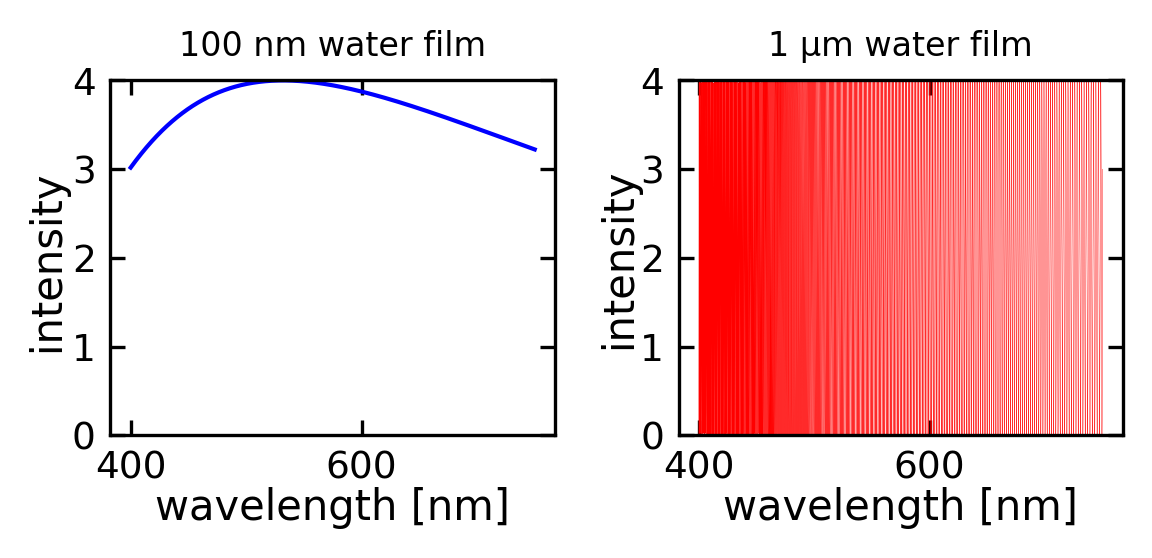
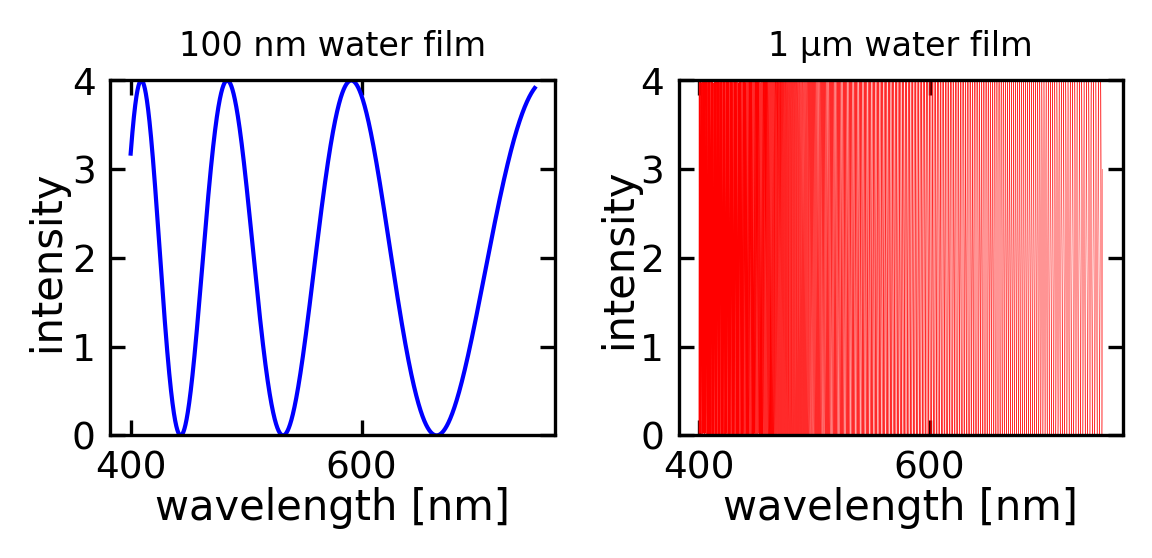
Built site for gh-pages

diff --git a/geometrical-optics/Rainbow.html b/geometrical-optics/Rainbow.html
@@ -512,7 +512,7 @@ window.Quarto = {
 <p>such that finally</p>
 <p><span class="math display">\[\phi=4\sin^{-1}\left (\frac{n_{\rm air}}{n_{\rm water}}\sin(\alpha) \right)-2\alpha\]</span></p>
 <p>So let us have a look at this dependence of the deflection angle as a function of the incidence angle.</p>
-<div id="ff09cbf0" class="cell" data-execution_count="2">
+<div id="f926b661" class="cell" data-execution_count="2">
 <details class="code-fold">
 <summary>Code</summary>
 <div class="sourceCode cell-code" id="cb1"><pre class="sourceCode python code-with-copy"><code class="sourceCode python"><span id="cb1-1"><a href="#cb1-1" aria-hidden="true" tabindex="-1"></a>alpha<span class="op">=</span>np.linspace(<span class="dv">0</span>,np.pi<span class="op">/</span><span class="dv">2</span>,<span class="dv">10000</span>)</span>
@@ -538,7 +538,7 @@ window.Quarto = {
 </div>
 </div>
 <p>The dependence seems to show a maximum deflection angle at an incidence angle of around <span class="math inline">\(\alpha=60^{\circ}\)</span>. This is an important finding, as the whole appearance of the rainbow depends on that.</p>
-<div id="45ecff79" class="cell" data-execution_count="3">
+<div id="e7bb194c" class="cell" data-execution_count="3">
 <div class="cell-output cell-output-stdout">
 <pre><code>Maximum deflection angle  41.78815648670841</code></pre>
 </div>
@@ -546,7 +546,7 @@ window.Quarto = {
 <section id="color-formation-and-dispersion" class="level3">
 <h3 class="anchored" data-anchor-id="color-formation-and-dispersion">Color Formation and Dispersion</h3>
 <p>The color of the rainbow is the result of the fact that the maximum deflection angle depends on the color of the light due to the dispersion. Since we have a refraction, reflection and another refraction, the largest maximum deflection angle is observed for red light, while the smallest one appears for blue light. The diagrams below show this result, which is in general true for materials with normal dispersion.</p>
-<div id="b95dfc32" class="cell" data-execution_count="4">
+<div id="c944503b" class="cell" data-execution_count="4">
 <details class="code-fold">
 <summary>Code</summary>
 <div class="sourceCode cell-code" id="cb3"><pre class="sourceCode python code-with-copy"><code class="sourceCode python"><span id="cb3-1"><a href="#cb3-1" aria-hidden="true" tabindex="-1"></a>plt.figure(figsize<span class="op">=</span>(<span class="dv">8</span>,<span class="dv">4</span>))</span>
@@ -581,7 +581,7 @@ window.Quarto = {
 </div>
 <p>This order of the colors is actually true for all incident angles, which raises the question, why the rainbow is actually colored. The blue color of a certain incidence angle would actually overlap with the green color of a different incidence angle and the red color of an even different incidence angle. If you select a specific outgoing angle under which you observe the rainbow, let us say <span class="math inline">\(41^{\circ}\)</span>, then you find under this observation angle all color and, therefore, should observe always white light.</p>
 <p>This is actually true if you look at the inside of a rainbow. You clearly recognize that inside the rainbow it is much brighter than outside. Yet when you reach the maximum angle of each color, you have a region, where even for larger angles for the incidence angles, the deflection angle does not change. Thus, if you assume you send in rays at constantly spaced incidence angles, you will have more rays with a deflection angle close to the maximum. The diagram below just counts the number of deflection angles in the different for each color and you clearly see that around the maximum deflection angles for each color you have a strong peak.</p>
-<div id="1947a68f" class="cell" data-execution_count="5">
+<div id="add67c64" class="cell" data-execution_count="5">
 <details class="code-fold">
 <summary>Code</summary>
 <div class="sourceCode cell-code" id="cb4"><pre class="sourceCode python code-with-copy"><code class="sourceCode python"><span id="cb4-1"><a href="#cb4-1" aria-hidden="true" tabindex="-1"></a>plt.figure(figsize<span class="op">=</span>(<span class="dv">6</span>,<span class="dv">4</span>))</span>

diff --git a/wave-optics/interference.html b/wave-optics/interference.html
@@ -536,7 +536,7 @@ Constructive Interference
 <p>Occurs when <span class="math inline">\(\Delta \phi=2\pi m\)</span> (where <span class="math inline">\(m\)</span> is an integer), resulting in <span class="math inline">\(I=4I_0\)</span></p>
 </div>
 </div>
-<div id="28e77686" class="cell" data-execution_count="2">
+<div id="f80c852e" class="cell" data-execution_count="2">
 <details class="code-fold">
 <summary>Code</summary>
 <div class="sourceCode cell-code" id="cb1"><pre class="sourceCode python code-with-copy"><code class="sourceCode python"><span id="cb1-1"><a href="#cb1-1" aria-hidden="true" tabindex="-1"></a>x<span class="op">=</span>np.linspace(<span class="dv">0</span>,<span class="dv">2</span>,<span class="dv">1000</span>)</span>
@@ -577,7 +577,7 @@ Destructive Interference
 <p>Occurs when <span class="math inline">\(\Delta \phi=(2m-1)\pi\)</span> (where <span class="math inline">\(m\)</span> is an integer), resulting in <span class="math inline">\(I=0\)</span></p>
 </div>
 </div>
-<div id="ebbaf3e2" class="cell" data-execution_count="3">
+<div id="8c6524e8" class="cell" data-execution_count="3">
 <details class="code-fold">
 <summary>Code</summary>
 <div class="sourceCode cell-code" id="cb2"><pre class="sourceCode python code-with-copy"><code class="sourceCode python"><span id="cb2-1"><a href="#cb2-1" aria-hidden="true" tabindex="-1"></a>x<span class="op">=</span>np.linspace(<span class="dv">0</span>,<span class="dv">2</span>,<span class="dv">1000</span>)</span>
@@ -641,7 +641,7 @@ Phase Difference and Path Difference
 </section>
 <section id="interference-of-waves-in-space" class="level3">
 <h3 class="anchored" data-anchor-id="interference-of-waves-in-space">Interference of Waves in Space</h3>
-<div id="4159bbe9" class="cell" data-execution_count="4">
+<div id="b89fbac5" class="cell" data-execution_count="4">
 <details class="code-fold">
 <summary>Code</summary>
 <div class="sourceCode cell-code" id="cb3"><pre class="sourceCode python code-with-copy"><code class="sourceCode python"><span id="cb3-1"><a href="#cb3-1" aria-hidden="true" tabindex="-1"></a><span class="kw">def</span> plane_wave(k,omega,r,t):</span>
@@ -695,7 +695,7 @@ Phase Difference and Path Difference
 </div>
 </div>
 </div>
-<div id="a60396b3" class="cell" data-execution_count="5">
+<div id="9acf345c" class="cell" data-execution_count="5">
 <details class="code-fold">
 <summary>Code</summary>
 <div class="sourceCode cell-code" id="cb4"><pre class="sourceCode python code-with-copy"><code class="sourceCode python"><span id="cb4-1"><a href="#cb4-1" aria-hidden="true" tabindex="-1"></a><span class="kw">def</span> spherical_wave(k,omega,r,r0,t):</span>
@@ -857,7 +857,7 @@ Coherence
 <li>Limited coherence length/area</li>
 <li>Spectral broadening</li>
 </ul>
-<div id="b67a0672" class="cell" data-execution_count="6">
+<div id="9bd67773" class="cell" data-execution_count="6">
 <details class="code-fold">
 <summary>Code</summary>
 <div class="sourceCode cell-code" id="cb5"><pre class="sourceCode python code-with-copy"><code class="sourceCode python"><span id="cb5-1"><a href="#cb5-1" aria-hidden="true" tabindex="-1"></a>omega0 <span class="op">=</span> <span class="fl">2.0</span></span>
@@ -929,7 +929,7 @@ Coherence
 </div>
 </div>
 <p>Besides different frequencies the coherence time can also be affected by phase jumps. The following example shows two waves with the same frequency but multiple phase jumps. The temporal correlation function shows the decoherence due to the phase jumps.</p>
-<div id="04e125a3" class="cell" data-execution_count="7">
+<div id="e0b80989" class="cell" data-execution_count="7">
 <details class="code-fold">
 <summary>Code</summary>
 <div class="sourceCode cell-code" id="cb6"><pre class="sourceCode python code-with-copy"><code class="sourceCode python"><span id="cb6-1"><a href="#cb6-1" aria-hidden="true" tabindex="-1"></a><span class="im">import</span> numpy <span class="im">as</span> np</span>

diff --git a/wave-optics/Wave Optics.html b/wave-optics/Wave Optics.html
@@ -705,7 +705,7 @@ k_{0y}\\
 k_{0z}\\
 \end{pmatrix}
 \end{equation}\]</span></p>
-<div id="01d315d1" class="cell" data-execution_count="2">
+<div id="d774ab20" class="cell" data-execution_count="2">
 <details class="code-fold">
 <summary>Code</summary>
 <div class="sourceCode cell-code" id="cb1"><pre class="sourceCode python code-with-copy"><code class="sourceCode python"><span id="cb1-1"><a href="#cb1-1" aria-hidden="true" tabindex="-1"></a><span class="kw">def</span> plane_wave(k,omega,r,t):</span>
@@ -879,9 +879,9 @@ k_1\sin(\theta_1)=k_2\sin(\theta_2)
 <span id="cb2-46"><a href="#cb2-46" aria-hidden="true" tabindex="-1"></a><span class="co"># Show the plot</span></span>
 <span id="cb2-47"><a href="#cb2-47" aria-hidden="true" tabindex="-1"></a>plt.show()</span></code><button title="Copy to Clipboard" class="code-copy-button"><i class="bi"></i></button></pre></div>
 </details>
-<div class="quarto-layout-panel" data-column-width-middle="20%" data-column-width-left="40%" data-column-width-right="20%" data-layout-ncol="3">
+<div class="quarto-layout-panel" data-column-width-middle="20%" data-column-width-left="40%" data-layout-ncol="3" data-column-width-right="20%">
 <div class="quarto-layout-row">
-<div id="4aad05db" class="cell quarto-layout-cell" data-execution_count="3" style="flex-basis: 33.3%;justify-content: flex-start;">
+<div id="519be020" class="cell quarto-layout-cell" data-execution_count="3" style="flex-basis: 33.3%;justify-content: flex-start;">
 <div class="cell-output cell-output-display">
 <div class="quarto-figure quarto-figure-center">
 <figure class="figure">
@@ -930,7 +930,7 @@ Important
 <p>The <span class="math inline">\(1/|\mathbf{r}-\mathbf{r}_0|\)</span> factor in the amplitude is necessary for energy conservation - ensuring that the total energy flux through any spherical surface centered on the source remains constant.</p>
 </div>
 </div>
-<div id="d1e03b6c" class="cell" data-execution_count="4">
+<div id="851130a9" class="cell" data-execution_count="4">
 <details class="code-fold">
 <summary>Code</summary>
 <div class="sourceCode cell-code" id="cb3"><pre class="sourceCode python code-with-copy"><code class="sourceCode python"><span id="cb3-1"><a href="#cb3-1" aria-hidden="true" tabindex="-1"></a><span class="kw">def</span> spherical_wave(k,omega,r,r0,t):</span>

diff --git a/geometrical-optics/Imaging Errors.html b/geometrical-optics/Imaging Errors.html
@@ -552,7 +552,7 @@ Figure&nbsp;1— Chromatic aberration. Left: Sketch of the chromatic aberration,
 </figure>
 </div>
 <p>Here is a plot for the variation of the focal distance of a lens with a radius of curvature of 100 mm as a function of the wavelength for three different glasses.</p>
-<div id="4c394d3d" class="cell" data-execution_count="2">
+<div id="e4c77e39" class="cell" data-execution_count="2">
 <details class="code-fold">
 <summary>Code</summary>
 <div class="sourceCode cell-code" id="cb1"><pre class="sourceCode python code-with-copy"><code class="sourceCode python"><span id="cb1-1"><a href="#cb1-1" aria-hidden="true" tabindex="-1"></a>bk7<span class="op">=</span>pd.read_csv(<span class="st">"data/BK7.csv"</span>,delimiter<span class="op">=</span><span class="st">","</span>)</span>
@@ -1034,7 +1034,7 @@ R_n^m(\rho) = \sum_{k=0}^{\frac{n-m}{2}} \frac{(-1)^k (n-k)!}{k! \left(\frac{n+m
 <p>The Zernike polynomials are indexed in several ways, with one common method being the Noll index, which provides a single index <span class="math inline">\(j\)</span> to each polynomial. Another method uses the pair <span class="math inline">\((n, m)\)</span> to index the polynomials, where <span class="math inline">\(n\)</span> indicates the order of the polynomial and <span class="math inline">\(m\)</span> its azimuthal frequency.</p>
 <p>These polynomials are particularly useful in optics and ophthalmology for describing the shape of optical wavefronts and the aberrations of optical systems, including the human eye. They allow for the decomposition of a complex wavefront into simpler, orthogonal components, each corresponding to a specific type of aberration, such as defocus, astigmatism, coma, etc.</p>
 <p>The plots below visualize the Zernike Polynomials up to a certain order.</p>
-<div id="ebcda236" class="cell" data-tags="[]" data-execution_count="3">
+<div id="7a25e9b1" class="cell" data-tags="[]" data-execution_count="3">
 <details class="code-fold">
 <summary>Code</summary>
 <div class="sourceCode cell-code" id="cb2"><pre class="sourceCode python code-with-copy"><code class="sourceCode python"><span id="cb2-1"><a href="#cb2-1" aria-hidden="true" tabindex="-1"></a><span class="kw">def</span> radial_polynomial(n, m, rho):</span>

diff --git a/wave-optics/Double Slit.html b/wave-optics/Double Slit.html
@@ -551,7 +551,7 @@ window.Quarto = {
 </details>
 <div class="quarto-layout-panel" data-layout-ncol="2">
 <div class="quarto-layout-row">
-<div id="9a3bfd91" class="cell quarto-layout-cell" data-execution_count="2" style="flex-basis: 50.0%;justify-content: flex-start;">
+<div id="5e6dc84e" class="cell quarto-layout-cell" data-execution_count="2" style="flex-basis: 50.0%;justify-content: flex-start;">
 <div class="cell-output cell-output-display">
 <div class="quarto-figure quarto-figure-center">
 <figure class="figure">
@@ -706,7 +706,7 @@ d3.select("#wavelength").on("input", function() {
 I = I_1 + I_2 + 2 \sqrt{I_1 I_2} \cos(\Delta \phi)
 \]</span></p>
 <p>where <span class="math inline">\(I_1\)</span> and <span class="math inline">\(I_2\)</span> are the intensities of the two sources. The intensity pattern is shown in the plot below. The intensity is highest at the center of the screen and decreases as we move away from the center. The intensity is zero at points where the path length difference is equal to an integer multiple of the wavelength, i.e.&nbsp;<span class="math inline">\(\Delta s = m \lambda\)</span> where <span class="math inline">\(m\)</span> is an integer. This gives the condition for constructive interference. The intensity is also zero at points where the path length difference is equal to an integer multiple of the wavelength plus half a wavelength, i.e.&nbsp;<span class="math inline">\(\Delta s = (m + 0.5) \lambda\)</span> where <span class="math inline">\(m\)</span> is an integer. This gives the condition for destructive interference.</p>
-<div id="d190777d" class="cell" data-execution_count="3">
+<div id="3735b34a" class="cell" data-execution_count="3">
 <details class="code-fold">
 <summary>Code</summary>
 <div class="sourceCode cell-code" id="cb2"><pre class="sourceCode python code-with-copy"><code class="sourceCode python"><span id="cb2-1"><a href="#cb2-1" aria-hidden="true" tabindex="-1"></a><span class="co"># Plot intensity pattern</span></span>

diff --git a/geometrical-optics/Optical Elements III.html b/geometrical-optics/Optical Elements III.html
@@ -539,7 +539,7 @@ Paraxial Approximation
 <li>The error increases rapidly for larger angles, indicating the limitations of the paraxial approximation.</li>
 </ol>
 <p>In most optical systems, especially those involving lenses, the angles of incident and refracted rays are typically small enough for this approximation to be valid. However, it’s important to be aware of its limitations when dealing with wide-angle optical systems or scenarios where precision is critical.</p>
-<div id="121a718c" class="cell" data-execution_count="2">
+<div id="0a72288c" class="cell" data-execution_count="2">
 <details class="code-fold">
 <summary>Code</summary>
 <div class="sourceCode cell-code" id="cb1"><pre class="sourceCode python code-with-copy"><code class="sourceCode python"><span id="cb1-1"><a href="#cb1-1" aria-hidden="true" tabindex="-1"></a><span class="im">import</span> numpy <span class="im">as</span> np</span>
@@ -968,7 +968,7 @@ M=\begin{bmatrix}
 <p>This is the Lensmaker’s equation for a thick lens.</p>
 <p>The construction of ray diagrams for thick lenses is similar to that for thin lenses, but the object and image distances are measured from the principal planes. The magnification is also calculated using the distances from the principal planes. <strong>Principal planes are where a thick lens can be treated as an equivalent thin lens. At these planes, the magnification is unity.</strong></p>
 <p>The derivation of the local of the principle planes will be part of the seminar.</p>
-<div id="952d3972" class="cell" data-execution_count="3">
+<div id="9a454a89" class="cell" data-execution_count="3">
 <details class="code-fold">
 <summary>Code</summary>
 <div class="sourceCode cell-code" id="cb2"><pre class="sourceCode python code-with-copy"><code class="sourceCode python"><span id="cb2-1"><a href="#cb2-1" aria-hidden="true" tabindex="-1"></a><span class="co"># %% Importing libraries and defining symbols</span></span>

diff --git a/wave-optics/Thin Film Interference.html b/wave-optics/Thin Film Interference.html
@@ -644,7 +644,7 @@ d=\frac{(2m-1)\lambda_{max}}{2n}\approx 75\, {\rm nm}
 <span id="cb2-20"><a href="#cb2-20" aria-hidden="true" tabindex="-1"></a></span>
 <span id="cb2-21"><a href="#cb2-21" aria-hidden="true" tabindex="-1"></a>wavelengths <span class="op">=</span> np.linspace(<span class="dv">400</span>, <span class="dv">750</span>, <span class="dv">10000</span>)</span>
 <span id="cb2-22"><a href="#cb2-22" aria-hidden="true" tabindex="-1"></a></span>
-<span id="cb2-23"><a href="#cb2-23" aria-hidden="true" tabindex="-1"></a>R_100nm <span class="op">=</span> [calculate_reflection(w<span class="op">*</span><span class="fl">1e-9</span>, <span class="fl">0.1e-6</span>) <span class="cf">for</span> w <span class="kw">in</span> wavelengths]</span>
+<span id="cb2-23"><a href="#cb2-23" aria-hidden="true" tabindex="-1"></a>R_100nm <span class="op">=</span> [calculate_reflection(w<span class="op">*</span><span class="fl">1e-9</span>, <span class="fl">1e-6</span>) <span class="cf">for</span> w <span class="kw">in</span> wavelengths]</span>
 <span id="cb2-24"><a href="#cb2-24" aria-hidden="true" tabindex="-1"></a>R_10nm <span class="op">=</span> [calculate_reflection(w<span class="op">*</span><span class="fl">1e-9</span>, <span class="fl">100e-6</span>) <span class="cf">for</span> w <span class="kw">in</span> wavelengths]</span>
 <span id="cb2-25"><a href="#cb2-25" aria-hidden="true" tabindex="-1"></a></span>
 <span id="cb2-26"><a href="#cb2-26" aria-hidden="true" tabindex="-1"></a>fig, (ax1, ax2) <span class="op">=</span> plt.subplots(<span class="dv">1</span>, <span class="dv">2</span>, figsize<span class="op">=</span>get_size(<span class="dv">10</span>, <span class="dv">5</span>),dpi<span class="op">=</span><span class="dv">150</span>)</span>

diff --git a/wave-optics/MultiWave Interference.html b/wave-optics/MultiWave Interference.html
@@ -635,7 +635,7 @@ I=I_{0}\frac{\sin^2(M\phi/2)}{\sin^2(\phi/2)}
 </details>
 <div id="figure-md" class="quarto-layout-panel" data-layout-ncol="2">
 <div class="quarto-layout-row">
-<div id="5d4c64ad" class="cell quarto-layout-cell" data-execution_count="2" style="flex-basis: 50.0%;justify-content: flex-start;">
+<div id="0af52d20" class="cell quarto-layout-cell" data-execution_count="2" style="flex-basis: 50.0%;justify-content: flex-start;">
 <div class="cell-output cell-output-display">
 <div class="quarto-figure quarto-figure-center">
 <figure class="figure">
@@ -802,7 +802,7 @@ U=U_1+U_2+U_3+\ldots+U_M = \sqrt{I_0}(1+h+h^2+\ldots)
 </details>
 <div id="figure-fabry" class="quarto-layout-panel" data-layout-ncol="2">
 <div class="quarto-layout-row">
-<div id="0f62243e" class="cell quarto-layout-cell" data-execution_count="4" style="flex-basis: 50.0%;justify-content: flex-start;">
+<div id="3dbf946a" class="cell quarto-layout-cell" data-execution_count="4" style="flex-basis: 50.0%;justify-content: flex-start;">
 <div class="cell-output cell-output-display">
 <div class="quarto-figure quarto-figure-center">
 <figure class="figure">
@@ -812,7 +812,7 @@ U=U_1+U_2+U_3+\ldots+U_M = \sqrt{I_0}(1+h+h^2+\ldots)
 </div>
 </div>
 </div>
-<div id="91af2b09" class="cell quarto-layout-cell" data-execution_count="5" style="flex-basis: 50.0%;justify-content: flex-start;">
+<div id="2efc9118" class="cell quarto-layout-cell" data-execution_count="5" style="flex-basis: 50.0%;justify-content: flex-start;">
 <div class="cell-output cell-output-display">
 <div class="quarto-figure quarto-figure-center">
 <figure class="figure">

diff --git a/geometrical-optics/Optical Elements I.html b/geometrical-optics/Optical Elements I.html
@@ -965,7 +965,7 @@ Elliptical Mirrors and Fermat’s Principle
 <p>There is one interesting feature about elliptical mirrors: they can focus light from one focal point to the other. This is because the sum of the distances from any point on the ellipse to the two focal points is constant. This property is known as the <strong>ellipse’s geometric definition</strong> and you can try that at home with a piece of string and two pins.</p>
 <p>We can now apply Fermat’s principle to proof that the light reflected from the ellipse travels a path length that is a saddle point. This means that the path length is stationary with respect to small perturbations in the path. Assuming for example that light travels from one focal point by a different path that is reflected from a line which is tangent to the ellipse at the point of reflection, the path length would be longer at any other point than the initial reflection point.</p>
 <p>On the other side, if we reflect the ray on a surface that is a circle, which is intersecting the ellipse at the point of reflection, the path length would be shorter at any other point than the initial reflection point. This is a proof that the ellipse is a saddle point.</p>
-<div id="3950e7e8" class="cell" data-execution_count="4">
+<div id="520a254b" class="cell" data-execution_count="4">
 <div class="cell-output cell-output-display">
 <div>
 <figure class="figure">

diff --git a/wave-optics/Diffraction.html b/wave-optics/Diffraction.html
@@ -572,7 +572,7 @@ I(\theta)=I_s\frac{\sin^2\left (\pi \frac{b}{\lambda}\sin(\theta)\right)}{\left(
 </figure>
 </div>
 <p>Let’s have a look at some of the properties of the intensity distribution.</p>
-<div id="b2990c38" class="cell" data-execution_count="2">
+<div id="aba27d0e" class="cell" data-execution_count="2">
 <details class="code-fold">
 <summary>Code</summary>
 <div class="sourceCode cell-code" id="cb1"><pre class="sourceCode python code-with-copy"><code class="sourceCode python"><span id="cb1-1"><a href="#cb1-1" aria-hidden="true" tabindex="-1"></a><span class="co">#</span></span>

diff --git a/geometrical-optics/Optical Elements II.html b/geometrical-optics/Optical Elements II.html
@@ -509,6 +509,9 @@ Figure&nbsp;1— Refraction of rays on a prism.
 <!--
 
 
+
+
+
 ```{=html}
 <div id="prism-viz" align="middle"></div>
 <input type="range" id="angle-slider" min="0" max="90" value="30" step="0.1">
@@ -631,6 +634,9 @@ d3.select("#angle-slider")
   });
 </script>
 ```
+
+
+
 
 
 
